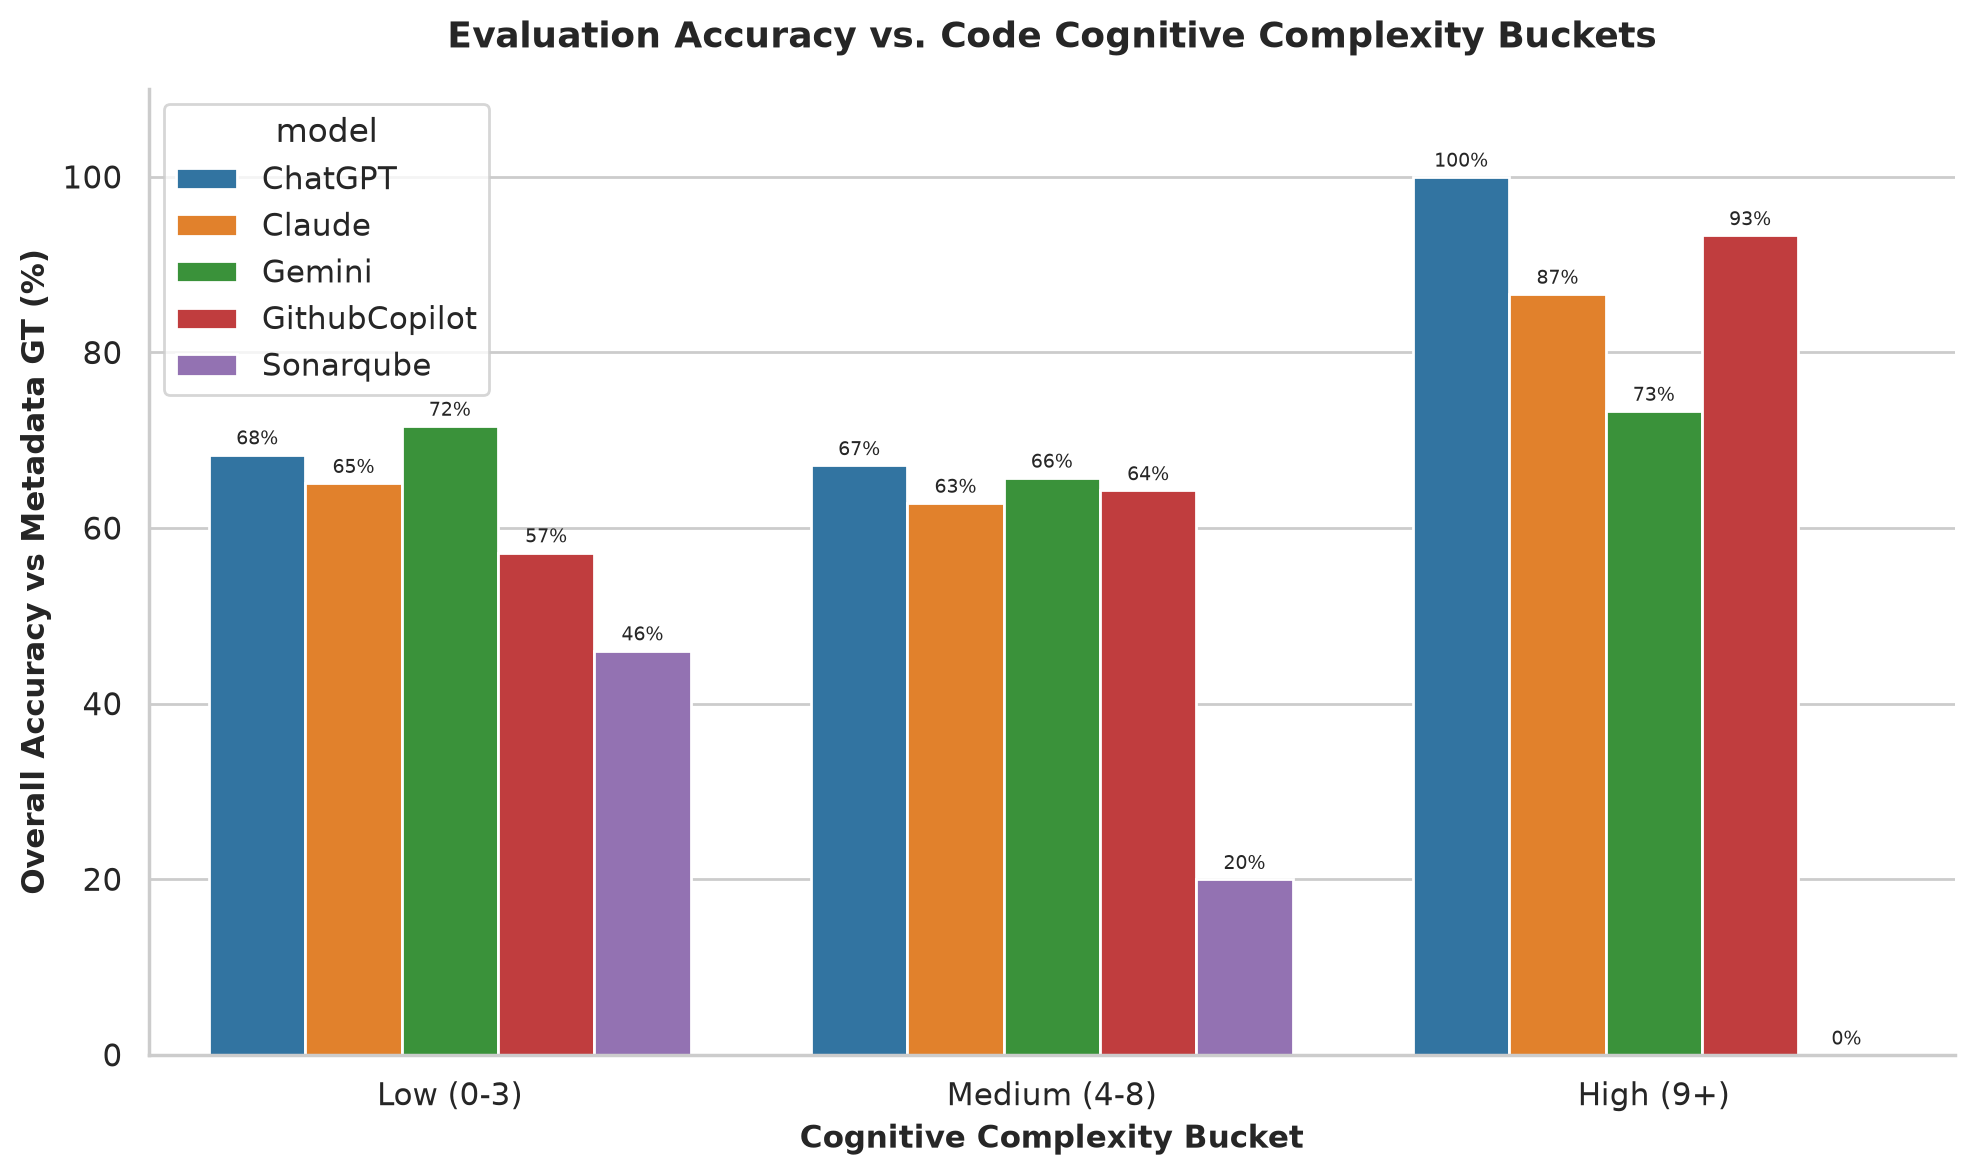
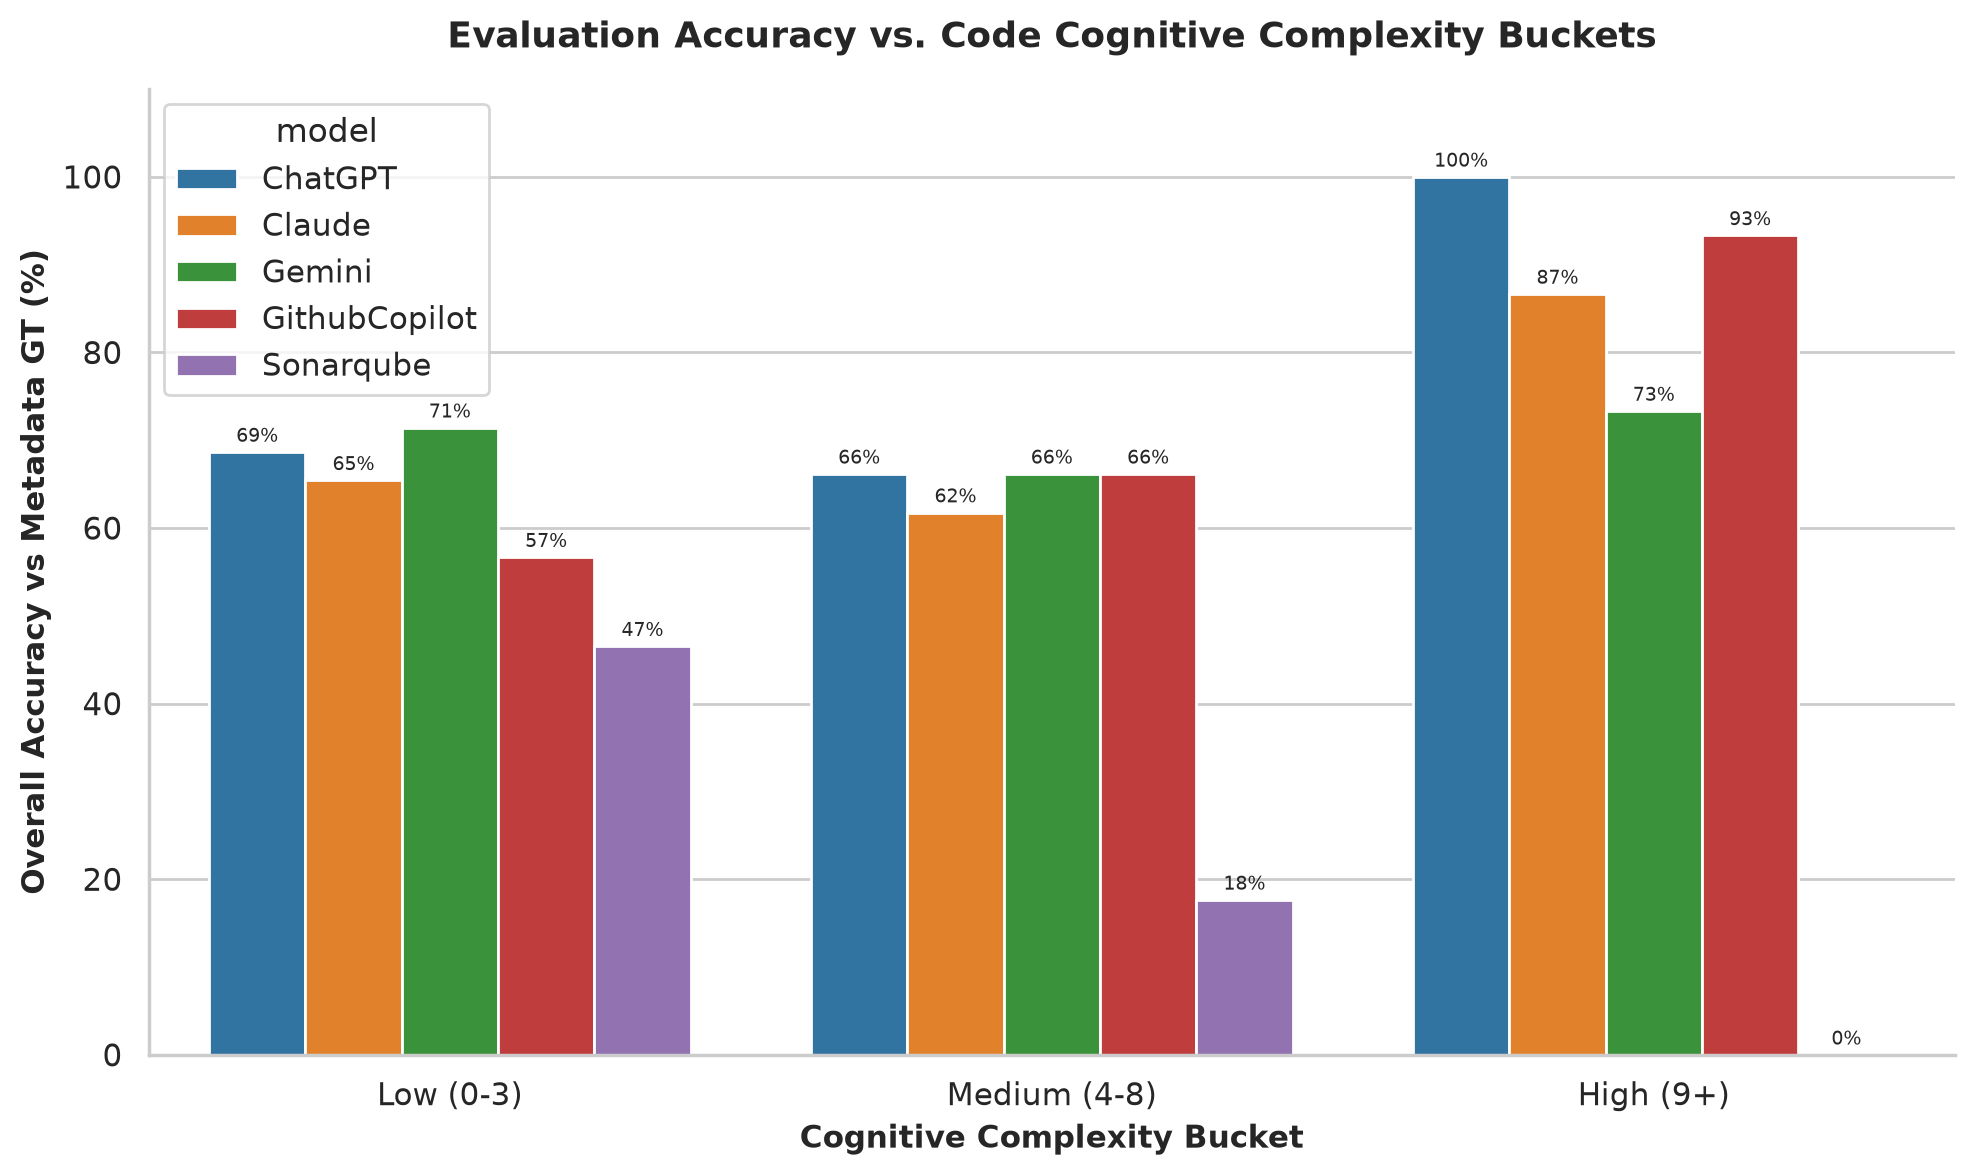
Fixed complexity mismatch

diff --git a/results/charts/6_Summary/metrics_macros.tex b/results/charts/6_Summary/metrics_macros.tex
@@ -854,28 +854,28 @@
 \providecommand{\FuncAnyFOneSonar}{}\renewcommand{\FuncAnyFOneSonar}{20.6}
 \providecommand{\MacroRecSecBugSonar}{}\renewcommand{\MacroRecSecBugSonar}{8.8}
 \providecommand{\PooledRecSecBugSonar}{}\renewcommand{\PooledRecSecBugSonar}{9.1}
-\providecommand{\CompCountLow}{}\renewcommand{\CompCountLow}{215}
-\providecommand{\CompMaeLowChatGPT}{}\renewcommand{\CompMaeLowChatGPT}{8.59}
-\providecommand{\CompSecAccLowChatGPT}{}\renewcommand{\CompSecAccLowChatGPT}{81.4}
+\providecommand{\CompCountLow}{}\renewcommand{\CompCountLow}{217}
+\providecommand{\CompMaeLowChatGPT}{}\renewcommand{\CompMaeLowChatGPT}{8.57}
+\providecommand{\CompSecAccLowChatGPT}{}\renewcommand{\CompSecAccLowChatGPT}{81.6}
 \providecommand{\CompMaeLowClaude}{}\renewcommand{\CompMaeLowClaude}{13.20}
-\providecommand{\CompSecAccLowClaude}{}\renewcommand{\CompSecAccLowClaude}{86.0}
-\providecommand{\CompMaeLowGemini}{}\renewcommand{\CompMaeLowGemini}{9.24}
-\providecommand{\CompSecAccLowGemini}{}\renewcommand{\CompSecAccLowGemini}{86.0}
-\providecommand{\CompMaeLowCopilot}{}\renewcommand{\CompMaeLowCopilot}{14.76}
-\providecommand{\CompSecAccLowCopilot}{}\renewcommand{\CompSecAccLowCopilot}{72.1}
-\providecommand{\CompMaeLowSonar}{}\renewcommand{\CompMaeLowSonar}{13.91}
-\providecommand{\CompSecAccLowSonar}{}\renewcommand{\CompSecAccLowSonar}{71.2}
-\providecommand{\CompCountMedium}{}\renewcommand{\CompCountMedium}{70}
-\providecommand{\CompMaeMediumChatGPT}{}\renewcommand{\CompMaeMediumChatGPT}{8.65}
-\providecommand{\CompSecAccMediumChatGPT}{}\renewcommand{\CompSecAccMediumChatGPT}{90.0}
-\providecommand{\CompMaeMediumClaude}{}\renewcommand{\CompMaeMediumClaude}{15.33}
-\providecommand{\CompSecAccMediumClaude}{}\renewcommand{\CompSecAccMediumClaude}{82.9}
-\providecommand{\CompMaeMediumGemini}{}\renewcommand{\CompMaeMediumGemini}{10.20}
-\providecommand{\CompSecAccMediumGemini}{}\renewcommand{\CompSecAccMediumGemini}{77.1}
-\providecommand{\CompMaeMediumCopilot}{}\renewcommand{\CompMaeMediumCopilot}{16.22}
-\providecommand{\CompSecAccMediumCopilot}{}\renewcommand{\CompSecAccMediumCopilot}{75.7}
-\providecommand{\CompMaeMediumSonar}{}\renewcommand{\CompMaeMediumSonar}{10.18}
-\providecommand{\CompSecAccMediumSonar}{}\renewcommand{\CompSecAccMediumSonar}{78.6}
+\providecommand{\CompSecAccLowClaude}{}\renewcommand{\CompSecAccLowClaude}{86.2}
+\providecommand{\CompMaeLowGemini}{}\renewcommand{\CompMaeLowGemini}{9.23}
+\providecommand{\CompSecAccLowGemini}{}\renewcommand{\CompSecAccLowGemini}{85.7}
+\providecommand{\CompMaeLowCopilot}{}\renewcommand{\CompMaeLowCopilot}{14.96}
+\providecommand{\CompSecAccLowCopilot}{}\renewcommand{\CompSecAccLowCopilot}{71.4}
+\providecommand{\CompMaeLowSonar}{}\renewcommand{\CompMaeLowSonar}{13.96}
+\providecommand{\CompSecAccLowSonar}{}\renewcommand{\CompSecAccLowSonar}{71.4}
+\providecommand{\CompCountMedium}{}\renewcommand{\CompCountMedium}{68}
+\providecommand{\CompMaeMediumChatGPT}{}\renewcommand{\CompMaeMediumChatGPT}{8.72}
+\providecommand{\CompSecAccMediumChatGPT}{}\renewcommand{\CompSecAccMediumChatGPT}{89.7}
+\providecommand{\CompMaeMediumClaude}{}\renewcommand{\CompMaeMediumClaude}{15.42}
+\providecommand{\CompSecAccMediumClaude}{}\renewcommand{\CompSecAccMediumClaude}{82.4}
+\providecommand{\CompMaeMediumGemini}{}\renewcommand{\CompMaeMediumGemini}{10.26}
+\providecommand{\CompSecAccMediumGemini}{}\renewcommand{\CompSecAccMediumGemini}{77.9}
+\providecommand{\CompMaeMediumCopilot}{}\renewcommand{\CompMaeMediumCopilot}{15.61}
+\providecommand{\CompSecAccMediumCopilot}{}\renewcommand{\CompSecAccMediumCopilot}{77.9}
+\providecommand{\CompMaeMediumSonar}{}\renewcommand{\CompMaeMediumSonar}{9.92}
+\providecommand{\CompSecAccMediumSonar}{}\renewcommand{\CompSecAccMediumSonar}{77.9}
 \providecommand{\CompCountHigh}{}\renewcommand{\CompCountHigh}{15}
 \providecommand{\CompMaeHighChatGPT}{}\renewcommand{\CompMaeHighChatGPT}{11.64}
 \providecommand{\CompSecAccHighChatGPT}{}\renewcommand{\CompSecAccHighChatGPT}{100.0}
